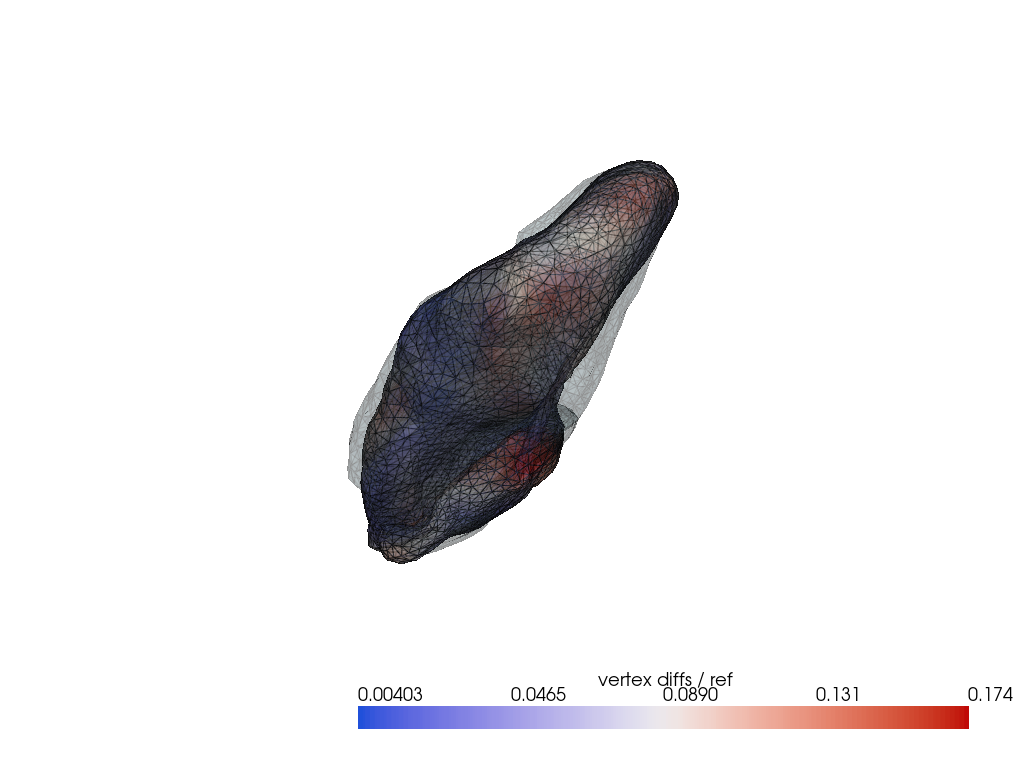
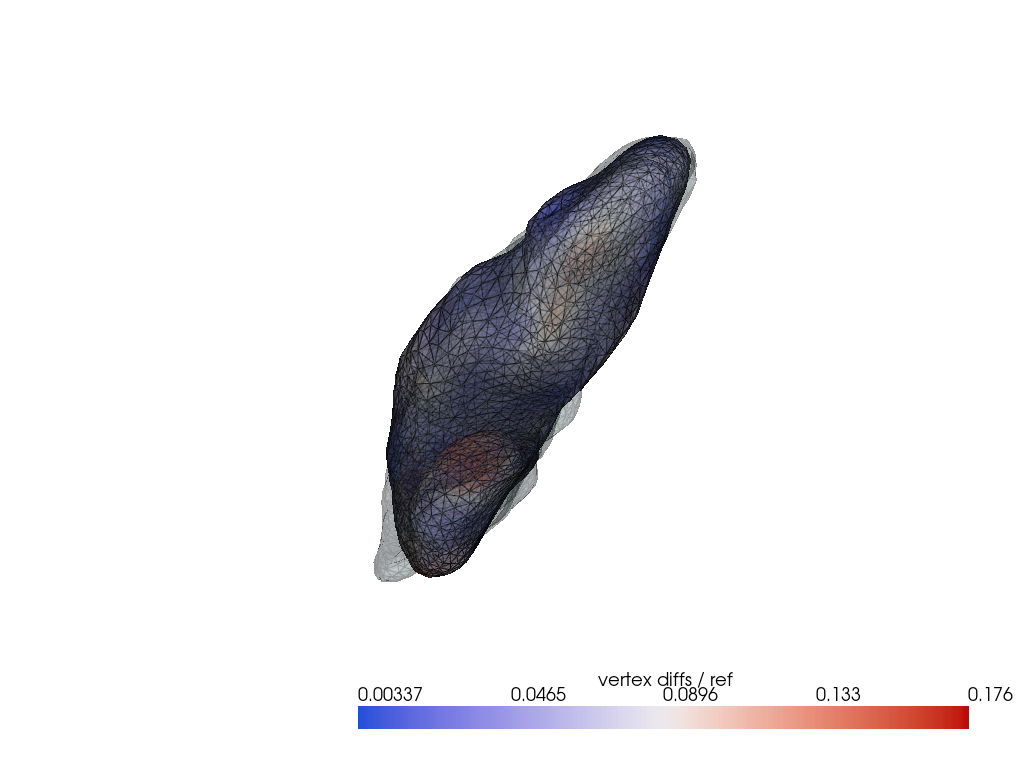
Deploying to main from @ geometric-intelligence/polpo@709c5ced41301d769051d38c100747d7069b1f1e 🚀

Changed region(s): [[0.3125, 0.1562, 0.6875, 0.7812], [0.375, 0.875, 0.4062, 0.9062]]

diff --git a/polpo/_modules/polpo/preprocessing/base.html b/polpo/_modules/polpo/preprocessing/base.html
@@ -377,6 +377,8 @@
 <span class="k">class</span><span class="w"> </span><span class="nc">PreprocessingStep</span><span class="p">(</span><span class="n">abc</span><span class="o">.</span><span class="n">ABC</span><span class="p">):</span>
 <span class="w">    </span><span class="sd">&quot;&quot;&quot;Preprocessing step.&quot;&quot;&quot;</span>
 
+    <span class="c1"># TODO: just call it step</span>
+
     <span class="nd">@abc</span><span class="o">.</span><span class="n">abstractmethod</span>
     <span class="k">def</span><span class="w"> </span><span class="fm">__call__</span><span class="p">(</span><span class="bp">self</span><span class="p">,</span> <span class="n">data</span><span class="o">=</span><span class="kc">None</span><span class="p">):</span>
 <span class="w">        </span><span class="sd">&quot;&quot;&quot;Apply step.&quot;&quot;&quot;</span>